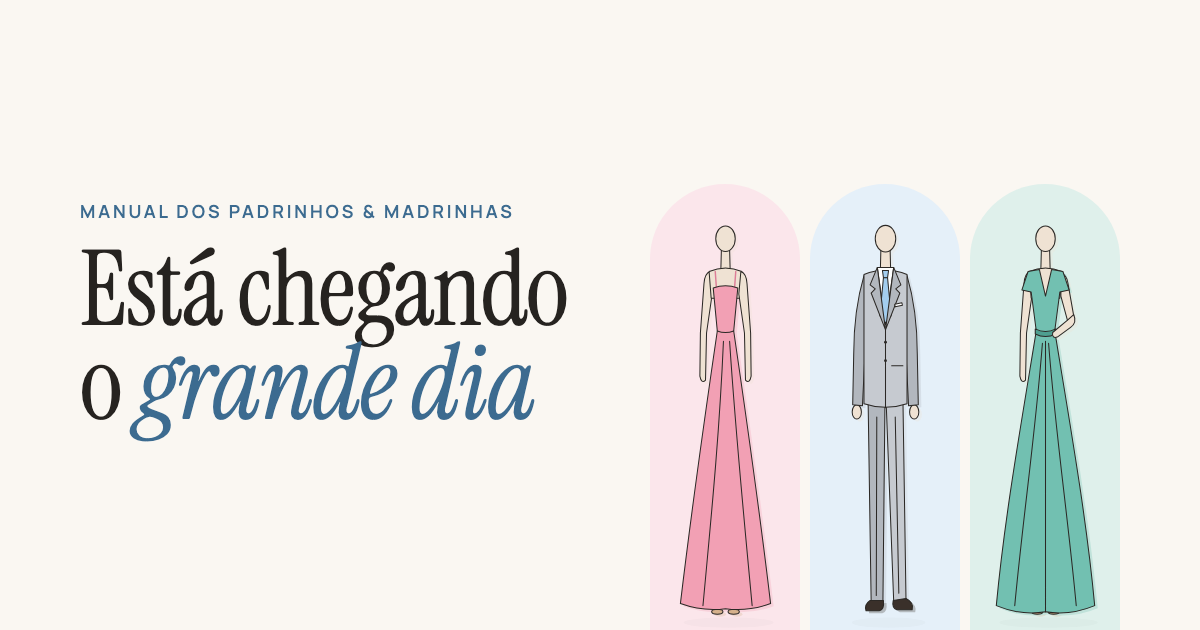
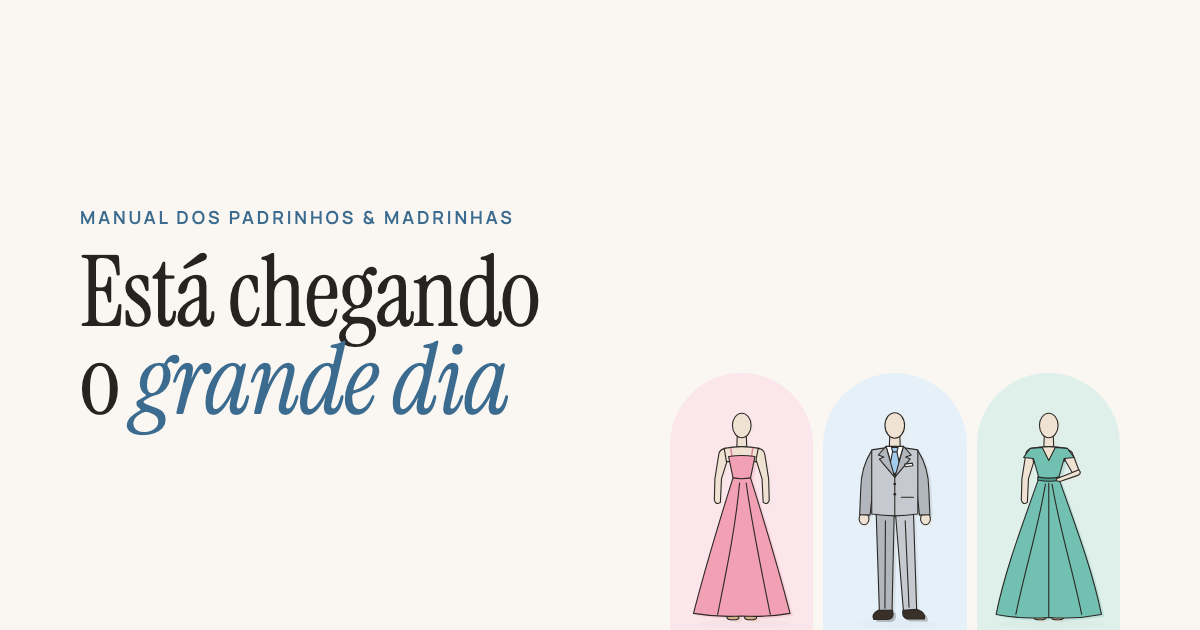
Manequins com proporção mais natural, camisa branca e vestido longo

diff --git a/index.html b/index.html
@@ -4,7 +4,7 @@
 <meta charset="utf-8">
 <meta name="viewport" content="width=device-width, initial-scale=1, viewport-fit=cover">
 <title>Manual dos Padrinhos e Madrinhas</title>
-<meta name="description" content="Está chegando o grande dia. O que vestir: terno cinza claro com gravata azul claro para eles, vestido e cor livres para elas.">
+<meta name="description" content="Está chegando o grande dia. O que vestir: terno cinza claro, camisa branca e gravata azul claro para eles; vestido longo, de modelo e cor livres, para elas.">
 <meta name="theme-color" content="#faf7f2">
 <meta property="og:type" content="website">
 <meta property="og:locale" content="pt_BR">
@@ -103,7 +103,7 @@
   }
   .legenda {
     display: block; text-align: center; margin-top: 10px;
-    font-family: var(--serif); font-style: italic; font-size: 20px; color: var(--suave);
+    font-family: var(--serif); font-style: italic; font-size: 17px; line-height: 1.25; color: var(--suave);
   }
 
   /* ---------- topo ---------- */
@@ -204,68 +204,80 @@
 <!-- desenhos: cada manequim é desenhado duas vezes, uma em cor e outra em traço, levemente deslocadas -->
 <svg width="0" height="0" style="position:absolute" aria-hidden="true">
   <defs>
+    <!-- o corpo é achatado na vertical (scale .52) e a cabeça fica de fora: proporção de ~8 cabeças -->
     <!-- PADRINHO -->
-    <g id="padrinho" style="stroke-width:1;stroke-linejoin:round;stroke-linecap:round">
-      <ellipse cx="60" cy="400" rx="36" ry="5" style="fill:var(--k-sombra)"/>
-      <path d="M55.5 38 L64.5 38 L65 58 L55 58 Z" style="fill:var(--k-pele);stroke:var(--k-traco)"/>
-      <ellipse cx="60" cy="28" rx="10" ry="13" style="fill:var(--k-pele);stroke:var(--k-traco)"/>
-      <ellipse cx="32" cy="197" rx="4.5" ry="7" style="fill:var(--k-pele);stroke:var(--k-traco)"/>
-      <ellipse cx="88" cy="197" rx="4.5" ry="7" style="fill:var(--k-pele);stroke:var(--k-traco)"/>
-      <path d="M43 184 L59.5 184 L57.5 382 L46 382 Z" style="fill:var(--k-terno2);stroke:var(--k-traco)"/>
-      <path d="M60.5 184 L77 184 L80 380 L68 382 Z" style="fill:var(--k-terno);stroke:var(--k-traco)"/>
-      <path d="M45 381 L58 381 Q59 390 54 391 L41 391 Q39 385 45 381 Z" style="fill:var(--k-sapato);stroke:var(--k-traco)"/>
-      <path d="M67.5 381 L80 379 Q88 383 86 390 L71 390 Q66 388 67.5 381 Z" style="fill:var(--k-sapato);stroke:var(--k-traco)"/>
-      <path d="M39 64 Q29 98 29 140 L28 190 L37.5 191 L40 140 L45 98 Z" style="fill:var(--k-terno2);stroke:var(--k-traco)"/>
-      <path d="M81 64 Q91 98 91 140 L92 190 L82.5 191 L80 140 L75 98 Z" style="fill:var(--k-terno2);stroke:var(--k-traco)"/>
-      <path d="M39 63 Q60 54 81 63 L81 189 Q60 196 39 189 Z" style="fill:var(--k-terno);stroke:var(--k-traco)"/>
-      <path d="M52 56 L68 56 L60 112 Z" style="fill:var(--k-camisa);stroke:var(--k-traco)"/>
-      <path d="M57 59 L63 59 L62 66 L58 66 Z" style="fill:var(--k-gravata);stroke:var(--k-traco)"/>
-      <path d="M58 66 L62 66 L65.5 103 L60 110 L54.5 103 Z" style="fill:var(--k-gravata);stroke:var(--k-traco)"/>
-      <path d="M52 56 L45 73 L50 77 L46 81 L60 117 Z" style="fill:var(--k-terno2);stroke:var(--k-traco)"/>
-      <path d="M68 56 L75 73 L70 77 L74 81 L60 117 Z" style="fill:var(--k-terno2);stroke:var(--k-traco)"/>
-      <path d="M69 92 L76 90.5 L76.5 93 L69.5 94.5 Z" style="fill:var(--k-camisa);stroke:var(--k-traco)"/>
-      <circle cx="60" cy="129" r="1.4" style="fill:var(--k-traco)"/>
-      <circle cx="60" cy="147" r="1.4" style="fill:var(--k-traco)"/>
-      <path d="M60 117 V193 M66 152 H77 M51.5 202 L51 376 M69.5 202 L73 374" style="fill:none;stroke:var(--k-traco)"/>
+    <g id="padrinho" style="stroke-width:1.1;stroke-linejoin:round;stroke-linecap:round">
+      <g transform="translate(60 40) scale(1.12 .52) translate(-60 -40)">
+        <ellipse cx="60" cy="400" rx="36" ry="9" style="fill:var(--k-sombra)"/>
+        <path vector-effect="non-scaling-stroke" d="M55.5 30 L64.5 30 L65 58 L55 58 Z" style="fill:var(--k-pele);stroke:var(--k-traco)"/>
+        <ellipse vector-effect="non-scaling-stroke" cx="32" cy="198" rx="4.5" ry="12" style="fill:var(--k-pele);stroke:var(--k-traco)"/>
+        <ellipse vector-effect="non-scaling-stroke" cx="88" cy="198" rx="4.5" ry="12" style="fill:var(--k-pele);stroke:var(--k-traco)"/>
+        <path vector-effect="non-scaling-stroke" d="M43 184 L59.5 184 L57.5 382 L46 382 Z" style="fill:var(--k-terno2);stroke:var(--k-traco)"/>
+        <path vector-effect="non-scaling-stroke" d="M60.5 184 L77 184 L80 380 L68 382 Z" style="fill:var(--k-terno);stroke:var(--k-traco)"/>
+        <path vector-effect="non-scaling-stroke" d="M45 378 L58 378 Q60 394 54 396 L41 396 Q38 386 45 378 Z" style="fill:var(--k-sapato);stroke:var(--k-traco)"/>
+        <path vector-effect="non-scaling-stroke" d="M67.5 378 L80 376 Q89 383 87 395 L71 395 Q66 390 67.5 378 Z" style="fill:var(--k-sapato);stroke:var(--k-traco)"/>
+        <path vector-effect="non-scaling-stroke" d="M39 64 Q29 98 29 140 L28 190 L37.5 191 L40 140 L45 98 Z" style="fill:var(--k-terno2);stroke:var(--k-traco)"/>
+        <path vector-effect="non-scaling-stroke" d="M81 64 Q91 98 91 140 L92 190 L82.5 191 L80 140 L75 98 Z" style="fill:var(--k-terno2);stroke:var(--k-traco)"/>
+        <path vector-effect="non-scaling-stroke" d="M39 63 Q60 54 81 63 L81 189 Q60 196 39 189 Z" style="fill:var(--k-terno);stroke:var(--k-traco)"/>
+        <path vector-effect="non-scaling-stroke" d="M52 56 L68 56 L60 112 Z" style="fill:var(--k-camisa);stroke:var(--k-traco)"/>
+        <path vector-effect="non-scaling-stroke" d="M57 58 L63 58 L62 67 L58 67 Z" style="fill:var(--k-gravata);stroke:var(--k-traco)"/>
+        <path vector-effect="non-scaling-stroke" d="M58 67 L62 67 L65.5 103 L60 110 L54.5 103 Z" style="fill:var(--k-gravata);stroke:var(--k-traco)"/>
+        <path vector-effect="non-scaling-stroke" d="M52 56 L45 73 L50 77 L46 81 L60 117 Z" style="fill:var(--k-terno2);stroke:var(--k-traco)"/>
+        <path vector-effect="non-scaling-stroke" d="M68 56 L75 73 L70 77 L74 81 L60 117 Z" style="fill:var(--k-terno2);stroke:var(--k-traco)"/>
+        <path vector-effect="non-scaling-stroke" d="M69 91 L76 89 L76.5 94 L69.5 96 Z" style="fill:var(--k-camisa);stroke:var(--k-traco)"/>
+        <ellipse cx="60" cy="130" rx="1.3" ry="2.6" style="fill:var(--k-traco)"/>
+        <ellipse cx="60" cy="150" rx="1.3" ry="2.6" style="fill:var(--k-traco)"/>
+        <path vector-effect="non-scaling-stroke" d="M60 117 V193 M66 156 H77 M51.5 202 L51 374 M69.5 202 L73 372" style="fill:none;stroke:var(--k-traco)"/>
+      </g>
+      <ellipse vector-effect="non-scaling-stroke" cx="60" cy="27" rx="10" ry="13" style="fill:var(--k-pele);stroke:var(--k-traco)"/>
     </g>
 
-    <!-- partes comuns das madrinhas -->
-    <g id="corpo" style="stroke-width:1;stroke-linejoin:round;stroke-linecap:round">
-      <ellipse cx="52" cy="392" rx="5.5" ry="2.4" style="fill:var(--k-pe);stroke:var(--k-traco)"/>
-      <ellipse cx="68" cy="392" rx="5.5" ry="2.4" style="fill:var(--k-pe);stroke:var(--k-traco)"/>
-      <path d="M45 60 Q39.5 62 39 72 L35.5 120 L35 162 Q36.5 170 40.5 166 L41.5 120 L47 82 Z" style="fill:var(--k-pele);stroke:var(--k-traco)"/>
-      <path d="M56 38 L64 38 L64.5 57 L55.5 57 Z" style="fill:var(--k-pele);stroke:var(--k-traco)"/>
-      <path d="M44 60 Q60 53 76 60 L74 86 L46 86 Z" style="fill:var(--k-pele);stroke:var(--k-traco)"/>
-      <ellipse cx="60" cy="28" rx="9.5" ry="12.5" style="fill:var(--k-pele);stroke:var(--k-traco)"/>
+    <!-- partes comuns das madrinhas (já dentro do corpo achatado) -->
+    <g id="corpo">
+      <ellipse vector-effect="non-scaling-stroke" cx="52" cy="392" rx="5.5" ry="4.6" style="fill:var(--k-pe);stroke:var(--k-traco)"/>
+      <ellipse vector-effect="non-scaling-stroke" cx="68" cy="392" rx="5.5" ry="4.6" style="fill:var(--k-pe);stroke:var(--k-traco)"/>
+      <path vector-effect="non-scaling-stroke" d="M45 60 Q39.5 62 39 72 L35.5 120 L35 162 Q36.5 172 40.5 166 L41.5 120 L47 82 Z" style="fill:var(--k-pele);stroke:var(--k-traco)"/>
+      <path vector-effect="non-scaling-stroke" d="M56 30 L64 30 L64.5 57 L55.5 57 Z" style="fill:var(--k-pele);stroke:var(--k-traco)"/>
+      <path vector-effect="non-scaling-stroke" d="M44 60 Q60 53 76 60 L74 86 L46 86 Z" style="fill:var(--k-pele);stroke:var(--k-traco)"/>
     </g>
-    <path id="braco-dir" d="M75 60 Q80.5 62 81 72 L84.5 120 L85 162 Q83.5 170 79.5 166 L78.5 120 L73 82 Z" style="fill:var(--k-pele);stroke:var(--k-traco);stroke-width:1;stroke-linejoin:round"/>
+    <path id="braco-dir" vector-effect="non-scaling-stroke" d="M75 60 Q80.5 62 81 72 L84.5 120 L85 162 Q83.5 172 79.5 166 L78.5 120 L73 82 Z" style="fill:var(--k-pele);stroke:var(--k-traco)"/>
+    <ellipse id="cabeca-f" vector-effect="non-scaling-stroke" cx="60" cy="27" rx="9.5" ry="12.5" style="fill:var(--k-pele);stroke:var(--k-traco)"/>
 
     <!-- 1: alças finas, evasê -->
-    <g id="madrinha-alcas" style="stroke-width:1;stroke-linejoin:round;stroke-linecap:round">
-      <ellipse cx="60" cy="400" rx="44" ry="5" style="fill:var(--k-sombra)"/>
-      <use href="#corpo"/><use href="#braco-dir"/>
-      <path d="M50 60 L51.2 77 M70 60 L68.8 77" style="fill:none;stroke:var(--k-vestido2);stroke-width:1.4"/>
-      <path d="M48 76 Q60 72 72 76 L68 118 C80 200 94 300 104 384 Q82 392 60 389 Q38 392 16 384 C26 300 40 200 52 118 Z" style="fill:var(--k-vestido);stroke:var(--k-traco)"/>
-      <path d="M52 118 Q60 121 68 118 M58 128 C54 220 46 300 38 386 M64 128 C70 220 78 300 86 386" style="fill:none;stroke:var(--k-traco)"/>
+    <g id="madrinha-alcas" style="stroke-width:1.1;stroke-linejoin:round;stroke-linecap:round">
+      <g transform="translate(60 40) scale(1.12 .52) translate(-60 -40)">
+        <ellipse cx="60" cy="400" rx="44" ry="9" style="fill:var(--k-sombra)"/>
+        <use href="#corpo"/><use href="#braco-dir"/>
+        <path vector-effect="non-scaling-stroke" d="M50 60 L51.2 77 M70 60 L68.8 77" style="fill:none;stroke:var(--k-vestido2);stroke-width:1.4"/>
+        <path vector-effect="non-scaling-stroke" d="M48 76 Q60 72 72 76 L68 118 C80 200 94 300 104 384 Q82 392 60 389 Q38 392 16 384 C26 300 40 200 52 118 Z" style="fill:var(--k-vestido);stroke:var(--k-traco)"/>
+        <path vector-effect="non-scaling-stroke" d="M52 118 Q60 121 68 118 M58 128 C54 220 46 300 38 386 M64 128 C70 220 78 300 86 386" style="fill:none;stroke:var(--k-traco)"/>
+      </g>
+      <use href="#cabeca-f"/>
     </g>
 
     <!-- 2: um ombro só, reto com fenda -->
-    <g id="madrinha-ombro" style="stroke-width:1;stroke-linejoin:round;stroke-linecap:round">
-      <ellipse cx="60" cy="400" rx="34" ry="5" style="fill:var(--k-sombra)"/>
-      <use href="#corpo"/><use href="#braco-dir"/>
-      <path d="M47 82 L71 59 Q76 60 76 65 L69 118 C73 200 78 300 85 388 Q60 395 35 388 C41 300 46 200 51 118 Z" style="fill:var(--k-vestido);stroke:var(--k-traco)"/>
-      <path d="M51 118 Q60 121 69 118 M69 252 L74.5 389 M57 126 C56 220 54 300 52 386" style="fill:none;stroke:var(--k-traco)"/>
+    <g id="madrinha-ombro" style="stroke-width:1.1;stroke-linejoin:round;stroke-linecap:round">
+      <g transform="translate(60 40) scale(1.12 .52) translate(-60 -40)">
+        <ellipse cx="60" cy="400" rx="34" ry="9" style="fill:var(--k-sombra)"/>
+        <use href="#corpo"/><use href="#braco-dir"/>
+        <path vector-effect="non-scaling-stroke" d="M47 82 L71 59 Q76 60 76 65 L69 118 C73 200 78 300 85 388 Q60 395 35 388 C41 300 46 200 51 118 Z" style="fill:var(--k-vestido);stroke:var(--k-traco)"/>
+        <path vector-effect="non-scaling-stroke" d="M51 118 Q60 121 69 118 M69 252 L74.5 389 M57 126 C56 220 54 300 52 386" style="fill:none;stroke:var(--k-traco)"/>
+      </g>
+      <use href="#cabeca-f"/>
     </g>
 
     <!-- 3: decote V, manguinhas, faixa, mão na cintura -->
-    <g id="madrinha-v" style="stroke-width:1;stroke-linejoin:round;stroke-linecap:round">
-      <ellipse cx="60" cy="400" rx="48" ry="5" style="fill:var(--k-sombra)"/>
-      <use href="#corpo"/>
-      <path d="M75 62 Q81 63 82 72 L87.5 103 L81.5 108 L75 84 Z" style="fill:var(--k-pele);stroke:var(--k-traco)"/>
-      <path d="M43 60 L54 58 L60 84 L66 58 L77 60 L83 78 L74 80 L69 118 C84 210 100 300 108 386 Q84 396 60 392 Q36 396 12 386 C20 300 36 210 51 118 L46 80 L37 78 Z" style="fill:var(--k-vestido);stroke:var(--k-traco)"/>
-      <path d="M50 116 Q60 121 70 116 L70 121 Q60 126 50 121 Z" style="fill:var(--k-vestido2);stroke:var(--k-traco)"/>
-      <path d="M87.5 102 Q91 110 84.5 114.5 L71.5 124 Q66 125.5 67 119.5 L81.5 107.5 Z" style="fill:var(--k-pele);stroke:var(--k-traco)"/>
-      <path d="M57 130 C50 220 38 300 30 386 M63 130 C70 220 82 300 90 386 M60 128 L60 392" style="fill:none;stroke:var(--k-traco)"/>
+    <g id="madrinha-v" style="stroke-width:1.1;stroke-linejoin:round;stroke-linecap:round">
+      <g transform="translate(60 40) scale(1.12 .52) translate(-60 -40)">
+        <ellipse cx="60" cy="400" rx="48" ry="9" style="fill:var(--k-sombra)"/>
+        <use href="#corpo"/>
+        <path vector-effect="non-scaling-stroke" d="M75 62 Q81 63 82 72 L87.5 103 L81.5 108 L75 84 Z" style="fill:var(--k-pele);stroke:var(--k-traco)"/>
+        <path vector-effect="non-scaling-stroke" d="M43 60 L54 58 L60 84 L66 58 L77 60 L83 78 L74 80 L69 118 C84 210 100 300 108 386 Q84 396 60 392 Q36 396 12 386 C20 300 36 210 51 118 L46 80 L37 78 Z" style="fill:var(--k-vestido);stroke:var(--k-traco)"/>
+        <path vector-effect="non-scaling-stroke" d="M50 116 Q60 121 70 116 L70 122 Q60 127 50 122 Z" style="fill:var(--k-vestido2);stroke:var(--k-traco)"/>
+        <path vector-effect="non-scaling-stroke" d="M87.5 102 Q91 110 84.5 114.5 L71.5 124 Q66 126 67 119.5 L81.5 107.5 Z" style="fill:var(--k-pele);stroke:var(--k-traco)"/>
+        <path vector-effect="non-scaling-stroke" d="M57 130 C50 220 38 300 30 386 M63 130 C70 220 82 300 90 386 M60 128 L60 392" style="fill:none;stroke:var(--k-traco)"/>
+      </g>
+      <use href="#cabeca-f"/>
     </g>
   </defs>
 </svg>
@@ -284,17 +296,17 @@
     </div>
     <div class="trio surge" role="img" aria-label="Uma madrinha de vestido rosa, um padrinho de terno cinza claro e uma madrinha de vestido verde-água">
       <div class="arco" style="--tom:var(--t-rosa)">
-        <svg class="fig" viewBox="0 0 120 410" style="--k-vestido:#f2a0b4;--k-vestido2:#dd7d97">
+        <svg class="fig" viewBox="0 0 120 236" style="--k-vestido:#f2a0b4;--k-vestido2:#dd7d97">
           <use class="eco" href="#madrinha-alcas" transform="translate(3 2.5)"/><use class="linha" href="#madrinha-alcas"/>
         </svg>
       </div>
       <div class="arco" style="--tom:var(--t-azul)">
-        <svg class="fig" viewBox="0 0 120 410">
+        <svg class="fig" viewBox="0 0 120 236">
           <use class="eco" href="#padrinho" transform="translate(3 2.5)"/><use class="linha" href="#padrinho"/>
         </svg>
       </div>
       <div class="arco" style="--tom:var(--t-verde)">
-        <svg class="fig" viewBox="0 0 120 410" style="--k-vestido:#72c0b1;--k-vestido2:#4e9f90">
+        <svg class="fig" viewBox="0 0 120 236" style="--k-vestido:#72c0b1;--k-vestido2:#4e9f90">
           <use class="eco" href="#madrinha-v" transform="translate(3 2.5)"/><use class="linha" href="#madrinha-v"/>
         </svg>
       </div>
@@ -305,16 +317,17 @@
   <section id="padrinhos" aria-labelledby="t-padrinhos">
     <div class="miolo padrinho">
       <figure class="arco surge" style="--tom:var(--t-azul)">
-        <svg class="fig" viewBox="0 0 120 410" role="img" aria-label="Padrinho de terno cinza claro e gravata azul claro">
+        <svg class="fig" viewBox="0 0 120 236" role="img" aria-label="Padrinho de terno cinza claro, camisa branca e gravata azul claro">
           <use class="eco" href="#padrinho" transform="translate(3 2.5)"/><use class="linha" href="#padrinho"/>
         </svg>
       </figure>
       <div class="surge">
         <p class="sobrelinha">01 · Para eles</p>
         <h2>Padrinhos</h2>
-        <p class="frase">Terno cinza claro com gravata azul claro.</p>
+        <p class="frase">Terno cinza claro, camisa branca e gravata azul claro.</p>
         <dl class="ficha">
           <div><dt>Terno</dt><dd><span class="bola" style="--c:#c6cad0"></span>Cinza claro</dd></div>
+          <div><dt>Camisa</dt><dd><span class="bola" style="--c:#ffffff"></span>Branca</dd></div>
           <div><dt>Gravata</dt><dd><span class="bola" style="--c:#a3cdee"></span>Azul claro</dd></div>
         </dl>
         <p class="nota">A cor da gravata a gente já escolheu. É o detalhe que une todos os padrinhos.</p>
@@ -328,14 +341,14 @@
       <div class="cabeca surge">
         <p class="sobrelinha">02 · Para elas</p>
         <h2>Madrinhas</h2>
-        <p class="frase">Vestido livre, cor livre. Só pedimos <em>alegria</em>.</p>
+        <p class="frase">Vestido longo, modelo e cor livres. Só pedimos <em>alegria</em>.</p>
         <p class="apoio">Escolham o modelo e a cor que mais combinarem com vocês. Separamos algumas inspirações:</p>
       </div>
 
       <div class="lookbook surge">
         <figure>
           <div class="arco" style="--tom:var(--t-rosa)">
-            <svg class="fig" viewBox="0 0 120 410" role="img" aria-label="Vestido longo rosa de alças finas" style="--k-vestido:#f2a0b4;--k-vestido2:#dd7d97">
+            <svg class="fig" viewBox="0 0 120 236" role="img" aria-label="Vestido longo rosa de alças finas" style="--k-vestido:#f2a0b4;--k-vestido2:#dd7d97">
               <use class="eco" href="#madrinha-alcas" transform="translate(3 2.5)"/><use class="linha" href="#madrinha-alcas"/>
             </svg>
           </div>
@@ -343,7 +356,7 @@
         </figure>
         <figure>
           <div class="arco" style="--tom:var(--t-amarelo)">
-            <svg class="fig" viewBox="0 0 120 410" role="img" aria-label="Vestido longo amarelo de um ombro só" style="--k-vestido:#f5c457;--k-vestido2:#e0a93a">
+            <svg class="fig" viewBox="0 0 120 236" role="img" aria-label="Vestido longo amarelo de um ombro só" style="--k-vestido:#f5c457;--k-vestido2:#e0a93a">
               <use class="eco" href="#madrinha-ombro" transform="translate(3 2.5)"/><use class="linha" href="#madrinha-ombro"/>
             </svg>
           </div>
@@ -351,7 +364,7 @@
         </figure>
         <figure>
           <div class="arco" style="--tom:var(--t-verde)">
-            <svg class="fig" viewBox="0 0 120 410" role="img" aria-label="Vestido longo verde-água com decote V" style="--k-vestido:#72c0b1;--k-vestido2:#4e9f90">
+            <svg class="fig" viewBox="0 0 120 236" role="img" aria-label="Vestido longo verde-água com decote V" style="--k-vestido:#72c0b1;--k-vestido2:#4e9f90">
               <use class="eco" href="#madrinha-v" transform="translate(3 2.5)"/><use class="linha" href="#madrinha-v"/>
             </svg>
           </div>
@@ -375,7 +388,7 @@
         <div class="regras surge">
           <div class="regra pode">
             <h3><span class="sinal" aria-hidden="true">✓</span>Pode</h3>
-            <ul><li>Qualquer modelo</li><li>Cores alegres</li></ul>
+            <ul><li>Vestido longo, qualquer modelo</li><li>Cores alegres</li></ul>
           </div>
           <div class="regra nao">
             <h3><span class="sinal" aria-hidden="true">✕</span>Não pode</h3>
